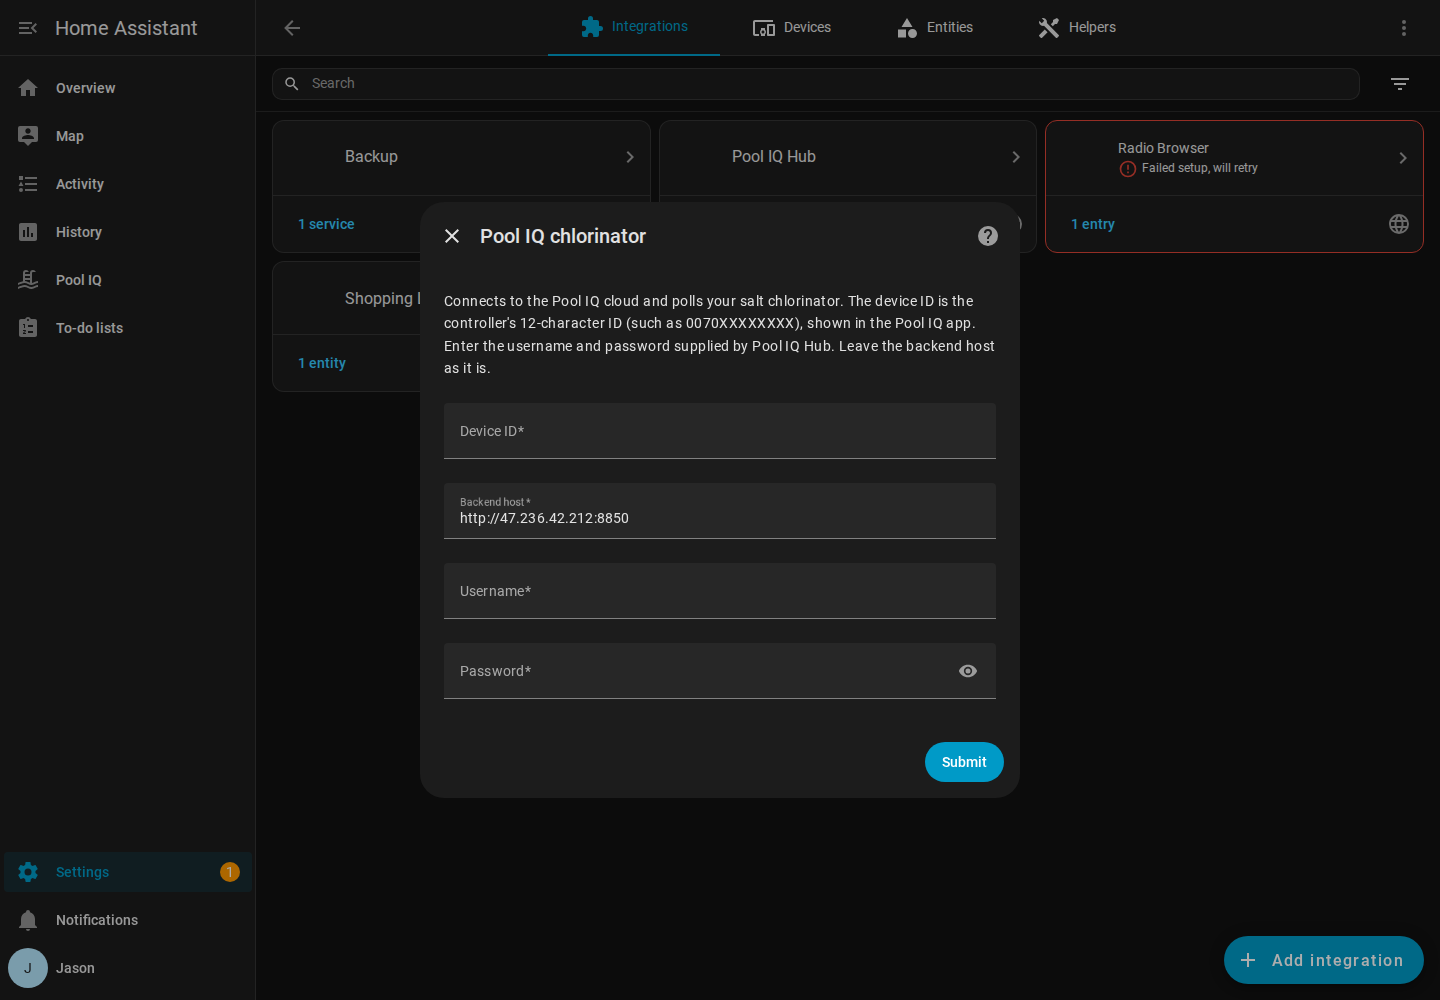
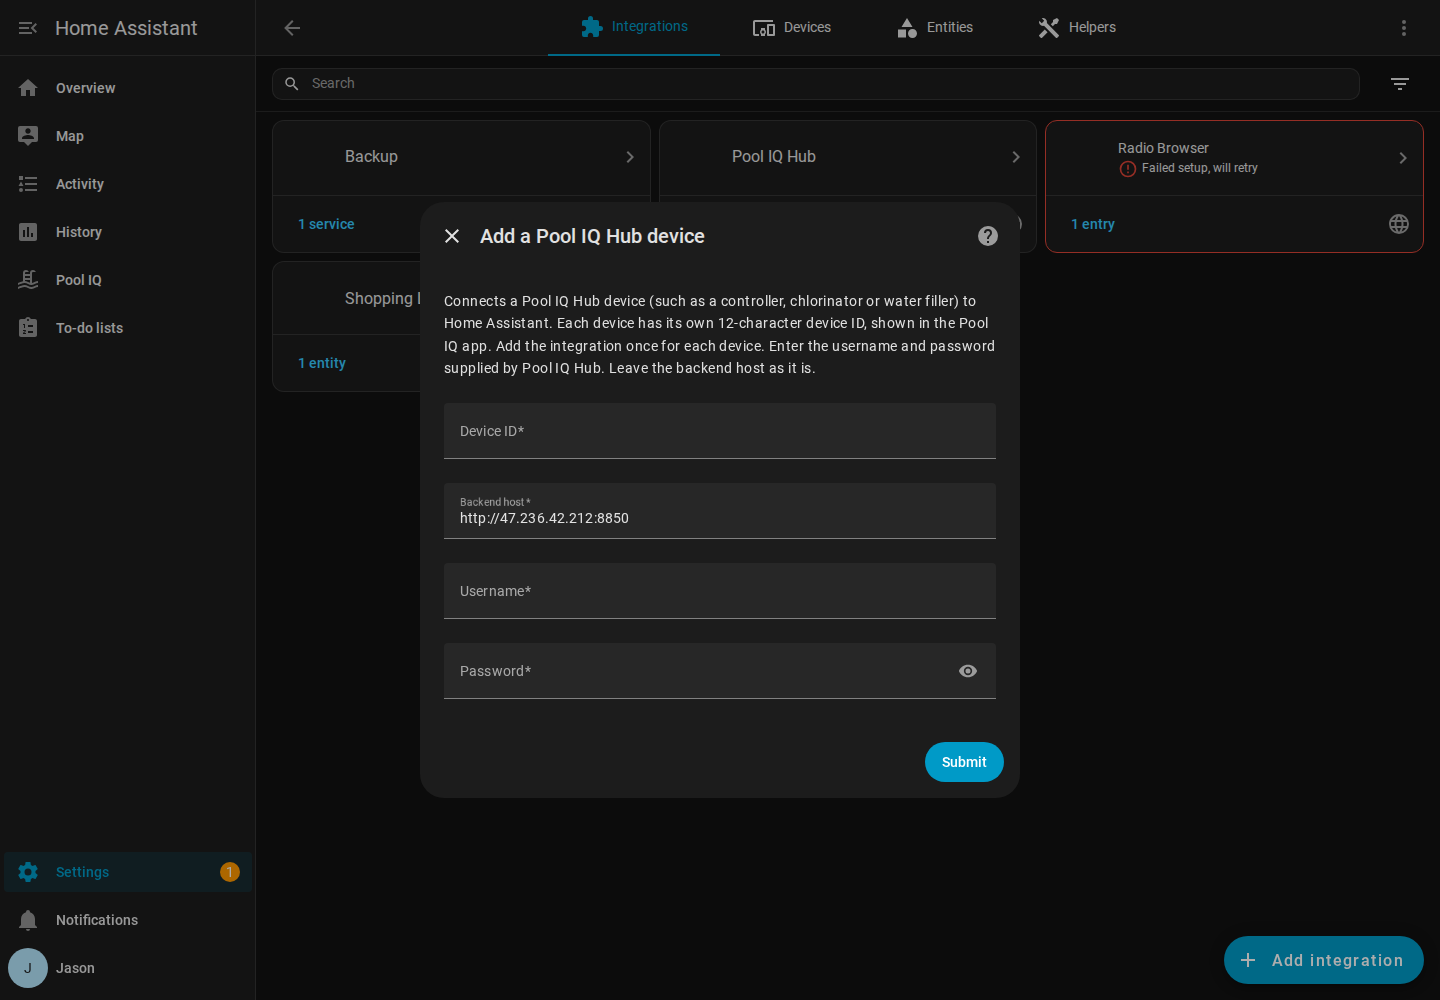
Release 0.4.1: follow chlorinator through purge, power pack temperature, generic device naming
- Poll every 5s for 90s after any command, and every 10s while the unit is
  purging or running a salt test, so status follows Purge -> On.
- Add Power pack temperature sensor (whole degrees) and show it on the panel.
- Name devices Pool IQ Controller / Chlorinator / Device by what they report.
- Generic setup form text for any Pool IQ Hub device.
- README and INSTALL updated for multiple device types; add CHANGELOG.

Claude-Session: https://claude.ai/code/session_01257QZwe8CHSdfKF85YoHYN

Changed region(s): [[0.3125, 0.279, 0.6875, 0.372], [0.3125, 0.217, 0.5, 0.248]]

diff --git a/custom_components/pooliq/frontend/pooliq-panel.js b/custom_components/pooliq/frontend/pooliq-panel.js
@@ -248,7 +248,7 @@ class PoolIQPanel extends HTMLElement {
     return `
       <div class="card empty">
         <ha-icon icon="mdi:pool"></ha-icon>
-        <h2>No Pool IQ controller set up yet</h2>
+        <h2>No Pool IQ device set up yet</h2>
         <p>Add one under <a href="/config/integrations/integration/pooliq">Settings → Devices &amp; services → Pool IQ</a>.</p>
       </div>`;
   }
@@ -292,6 +292,7 @@ class PoolIQPanel extends HTMLElement {
       stat(r.output, "Chlorinator output", "mdi:water-percent"),
       stat(r.cell, "Cell", "mdi:flash-outline"),
       stat(r.pump, "Chlorinator pump", "mdi:pump"),
+      stat(r.power_pack, "Power pack", "mdi:thermometer"),
       stat(r.work_mode, "Work mode", "mdi:cog-outline"),
       stat(r.fault, "Faults", "mdi:alert-circle-outline"),
     ].join("");

diff --git a/custom_components/pooliq/coordinator.py b/custom_components/pooliq/coordinator.py
@@ -3,6 +3,7 @@ from __future__ import annotations
 
 import asyncio
 import logging
+import time
 from datetime import timedelta
 from typing import Any
 
@@ -19,7 +20,15 @@ from .const import DOMAIN
 _LOGGER = logging.getLogger(__name__)
 
 STORAGE_VERSION = 1
-CONFIRM_DELAY = 6  # seconds to wait for the hub to confirm a write
+CONFIRM_DELAY = 4  # seconds before the first check after a command
+# After a command, poll quickly while the device works through it: a
+# chlorinator purges for ~16s, then ramps its output for another ~15s.
+FAST_INTERVAL = timedelta(seconds=5)
+FAST_WINDOW = 90  # seconds of fast polling after each command
+# While the device is mid-transition on its own (purging, salt test), keep
+# checking every 10s, but never for longer than this.
+SETTLING_INTERVAL = timedelta(seconds=10)
+SETTLING_MAX = 600
 TRIGGER_WAIT = 3  # seconds for the hub to answer a full-report request
 DEFAULT_BOOST_HOURS = 8
 
@@ -45,6 +54,9 @@ class PoolIQCoordinator(DataUpdateCoordinator[dict[str, Any]]):
         )
         self.client = client
         self.entry = entry
+        self._normal_interval = timedelta(seconds=scan_interval)
+        self._fast_until = 0.0
+        self._settling_since: float | None = None
         # Socket state is only visible when the hub reports a change, so the
         # last known state is cached here and persisted across restarts.
         self._sockets: dict[str, dict[str, Any]] = {}
@@ -104,7 +116,30 @@ class PoolIQCoordinator(DataUpdateCoordinator[dict[str, Any]]):
         if changed:
             self._save_cache()
 
+        self._pick_interval(props)
         return {"properties": props, "sockets": dict(self._sockets)}
+
+    @staticmethod
+    def _is_settling(props: dict[str, Any]) -> bool:
+        """True while the device is in a short-lived state that will change on its own."""
+        def val(key: str) -> str:
+            return str((props.get(key) or {}).get("value", "")).upper()
+
+        return val("CellStatus") == "PURGE" or val("SpecMode") == "3"  # 3 = salt test
+
+    @callback
+    def _pick_interval(self, props: dict[str, Any]) -> None:
+        now = time.monotonic()
+        if self._is_settling(props):
+            self._settling_since = self._settling_since or now
+        else:
+            self._settling_since = None
+        if now < self._fast_until:
+            self.update_interval = FAST_INTERVAL
+        elif self._settling_since is not None and now - self._settling_since < SETTLING_MAX:
+            self.update_interval = SETTLING_INTERVAL
+        else:
+            self.update_interval = self._normal_interval
 
     async def async_set_socket(self, socket: str, mode: str) -> None:
         """Write a socket mode, update optimistically, then confirm shortly after."""
@@ -121,16 +156,16 @@ class PoolIQCoordinator(DataUpdateCoordinator[dict[str, Any]]):
         self._save_cache()
         if self.data is not None:
             self.async_set_updated_data({**self.data, "sockets": dict(self._sockets)})
-
-        async def _confirm(_now) -> None:
-            await self.async_request_refresh()
-
-        async_call_later(self.hass, CONFIRM_DELAY, _confirm)
+        self._schedule_confirm()
 
     @callback
     def _schedule_confirm(self) -> None:
+        """Check back soon after a command, then keep checking quickly for a while."""
+        self._fast_until = time.monotonic() + FAST_WINDOW
+        self.update_interval = FAST_INTERVAL
+
         async def _confirm(_now) -> None:
-            await self.async_request_refresh()
+            await self.async_refresh()
 
         async_call_later(self.hass, CONFIRM_DELAY, _confirm)
 

diff --git a/custom_components/pooliq/sensor.py b/custom_components/pooliq/sensor.py
@@ -41,6 +41,8 @@ class PoolIQSensorDescription(SensorEntityDescription):
     value_fn: Callable[[dict[str, Any]], Any] | None = None
     # Only create the entity when the device reports this property.
     requires: str | None = None
+    # Property to read when it differs from the key (key also forms the unique id).
+    prop: str | None = None
 
 
 TEMP_LABELS = {"WaterTemp": "TempNameA", "WaterTempB": "TempNameB"}
@@ -120,16 +122,6 @@ SENSORS: tuple[PoolIQSensorDescription, ...] = (
     ),
     # --- Diagnostics ---
     PoolIQSensorDescription(
-        key="internal_temperature",
-        name="Controller temperature",
-        device_class=SensorDeviceClass.TEMPERATURE,
-        native_unit_of_measurement=UnitOfTemperature.CELSIUS,
-        state_class=SensorStateClass.MEASUREMENT,
-        divide=10.0,
-        entity_category=EntityCategory.DIAGNOSTIC,
-        entity_registry_enabled_default=False,
-    ),
-    PoolIQSensorDescription(
         key="WIFI_RSSI",
         name="WiFi signal",
         state_class=SensorStateClass.MEASUREMENT,
@@ -202,6 +194,16 @@ def _timer(n: int) -> Callable[[dict[str, Any]], Any]:
 # Created only on devices that report them (chlorinators).
 CHLORINATOR_SENSORS: tuple[PoolIQSensorDescription, ...] = (
     PoolIQSensorDescription(
+        # Reported in whole degrees (26 = 26°C), unlike the water probes.
+        key="power_pack_temp",
+        prop="internal_temperature",
+        requires="internal_temperature",
+        name="Power pack temperature",
+        device_class=SensorDeviceClass.TEMPERATURE,
+        native_unit_of_measurement=UnitOfTemperature.CELSIUS,
+        state_class=SensorStateClass.MEASUREMENT,
+    ),
+    PoolIQSensorDescription(
         key="SpecMode",
         name="Special mode",
         source="text",
@@ -267,7 +269,7 @@ async def async_setup_entry(
 
 
 class PoolIQSensor(PoolIQEntity, SensorEntity):
-    """A single reading from the chlorinator."""
+    """A single reading from a Pool IQ device."""
 
     entity_description: PoolIQSensorDescription
 
@@ -290,7 +292,7 @@ class PoolIQSensor(PoolIQEntity, SensorEntity):
         if desc.value_fn is not None:
             return desc.value_fn((self.coordinator.data or {}).get("properties") or {})
 
-        item = self._prop(desc.key)
+        item = self._prop(desc.prop or desc.key)
         if item is None:
             return None
 

diff --git a/custom_components/pooliq/entity.py b/custom_components/pooliq/entity.py
@@ -13,15 +13,23 @@ from .coordinator import PoolIQCoordinator
 
 
 def device_info(coordinator: PoolIQCoordinator) -> DeviceInfo:
+    """Name the device after what it reports; anything unrecognised is a generic Pool IQ device.
+
+    Users can rename it in Home Assistant (e.g. "Water filler") and the panel follows.
+    """
     props = (coordinator.data or {}).get("properties") or {}
     sw = (props.get("software_ver") or {}).get("value")
-    # A device with an output setpoint has a salt cell; otherwise it's a controller hub.
-    chlorinator = "OutputSetPoint" in props
+    if "OutputSetPoint" in props:  # has a salt cell
+        name, model = "Pool IQ Chlorinator", "Salt chlorinator"
+    elif coordinator.sockets:  # reports switched sockets
+        name, model = "Pool IQ Controller", "Controller hub"
+    else:
+        name, model = "Pool IQ Device", "Pool IQ Hub device"
     return DeviceInfo(
         identifiers={(DOMAIN, coordinator.client.device_id)},
-        name="Pool IQ Chlorinator" if chlorinator else "Pool IQ Controller",
+        name=name,
         manufacturer="Pool IQ Hub",
-        model="SL Series salt chlorinator" if chlorinator else "Pool IQ controller hub",
+        model=model,
         sw_version=sw,
     )
 

diff --git a/custom_components/pooliq/panel.py b/custom_components/pooliq/panel.py
@@ -34,6 +34,7 @@ READING_KEYS = {
     "PumpStatus": "pump",
     # chlorinator
     "SpecMode": "special",
+    "power_pack_temp": "power_pack",
     "PowerMode_ctl": "mode",
     "OutputSetPoint_ctl": "setpoint",
     "WinterMode_ctl": "winter",
@@ -96,7 +97,7 @@ def async_maybe_remove_panel(hass: HomeAssistant, unloading_entry_id: str) -> No
 def ws_list_devices(
     hass: HomeAssistant, connection: websocket_api.ActiveConnection, msg: dict[str, Any]
 ) -> None:
-    """List configured controllers and the entity ids the panel should show."""
+    """List configured Pool IQ devices and the entity ids the panel should show."""
     registry = er.async_get(hass)
     devices = []
     for entry in hass.config_entries.async_entries(DOMAIN):

diff --git a/custom_components/pooliq/const.py b/custom_components/pooliq/const.py
@@ -2,7 +2,7 @@
 from __future__ import annotations
 
 DOMAIN = "pooliq"
-VERSION = "0.4.0"
+VERSION = "0.4.1"
 
 # JetLinks backend the Pool IQ app talks to.
 DEFAULT_HOST = "http://47.236.42.212:8850"

diff --git a/README.md b/README.md
@@ -1,8 +1,8 @@
 # Pool IQ Hub for Home Assistant
 
-A custom integration that brings your Pool IQ Hub salt chlorinator and its switched sockets into Home Assistant: water temperature, salt level, chlorinator output and status, plus on/off/auto control of everything plugged into the hub (filter pump, lights, blowers, jet pump).
+A custom integration that brings your Pool IQ Hub devices into Home Assistant. A controller hub gives you water temperatures and on/off/auto control of everything plugged into it (filter pump, lights, blowers, jet pump). A salt chlorinator gives you salt level, output, cell status, power pack temperature and full chlorinator control. Other Pool IQ Hub devices appear with the readings they report.
 
-The Pool IQ app has no official Home Assistant integration. This talks to the same JetLinks cloud backend the app uses (`47.236.42.212:8850`), logging in with Pool IQ cloud credentials and reading your device's latest reported values on a schedule.
+The Pool IQ app has no official Home Assistant integration. This talks to the same JetLinks cloud backend the app uses (`47.236.42.212:8850`), logging in with Pool IQ cloud credentials and reading each device's latest reported values on a schedule. After you change something, it checks back every few seconds until the device has settled.
 
 > **New installing this?** See [INSTALL.md](INSTALL.md) for a step-by-step guide with screenshots.
 
@@ -27,7 +27,7 @@ In Auto, the switch shows whether the timer currently has the socket on. The tim
 
 ### Chlorinator control
 
-When the device is a salt chlorinator (it reports an output setpoint), it also gets:
+When the device is a salt chlorinator (it reports an output setpoint), it gets:
 
 - **Chlorinator mode** (On / Off / Auto) and an **Output setpoint** slider (0 to 100%)
 - **Winter mode** and **Spa mode** switches, with their own output settings
@@ -35,6 +35,7 @@ When the device is a salt chlorinator (it reports an output setpoint), it also g
 - **Start boost** / **Stop boost** buttons, with a **Boost duration** setting (hours)
 - **Run salt test** button
 - **Special mode** (Normal, Boost, Backwash, Salt test), **Running on** (which timer is active), and **Timer 1 / Timer 2** windows
+- **Power pack temperature** (°C)
 
 Backwash is a multi-step routine on the unit and is left to the Pool IQ app.
 
@@ -50,17 +51,17 @@ Enabled by default:
 - **Pump** (running / not running, binary sensor)
 - **Fault code**
 
-Disabled by default (enable per entity if you want them): copper level, controller temperature, WiFi signal, pump/cell/power running hours, firmware version, pH dosing pump, cell direction.
+Disabled by default (enable per entity if you want them): copper level, WiFi signal, pump/cell/power running hours, firmware version, pH dosing pump, cell direction.
 
 Some properties (salt, pump, output, cell) only report while the unit is actively running, so they may read as unknown when it is idle. They populate once the pump and cell come on.
 
 ## Requirements
 
 - Home Assistant 2024.7 or newer
-- Your chlorinator's **device ID** (a MAC-style string such as `0070XXXXXXXX`)
+- The **device ID** of each Pool IQ Hub device you want to add (a 12-character code such as `0070XXXXXXXX`)
 - The Pool IQ **username and password** supplied by Pool IQ Hub
 
-Finding the device ID: it is shown in the Pool IQ app, or captured from the app's network traffic (the `device-instance/<ID>` requests).
+Finding the device ID: it is shown in the Pool IQ app. A controller hub and a chlorinator each have their own ID.
 
 ## Install
 
@@ -80,6 +81,9 @@ Finding the device ID: it is shown in the Pool IQ app, or captured from the app'
 1. **Settings → Devices & Services → Add Integration → Pool IQ**.
 2. Enter your **device ID** and the **username** and **password** supplied by Pool IQ Hub. Leave the backend host as it is.
 3. Submit. The integration logs in, confirms it can read the device, and creates the entities.
+4. **More than one device?** Repeat these steps for each one (for example, once for the controller hub and once for the chlorinator). They all appear on the same Pool IQ sidebar page.
+
+Devices are named Pool IQ Controller, Pool IQ Chlorinator or Pool IQ Device depending on what they report. Rename any of them in Home Assistant (for example "Water filler") and the sidebar page follows.
 
 Change the polling interval (default 300s) any time via the integration's **Configure** button.
 

diff --git a/INSTALL.md b/INSTALL.md
@@ -6,7 +6,7 @@ This guide takes a fresh Home Assistant installation to a working Pool IQ setup.
 
 - Home Assistant 2024.7 or newer (tested on 2026.2)
 - A Pool IQ hub that is online and working in the Pool IQ app
-- The hub's **device ID**: a 12-character code such as `0070XXXXXXXX`
+- The **device ID** of each Pool IQ Hub device: a 12-character code such as `0070XXXXXXXX`, shown in the Pool IQ app
 - The Pool IQ **username and password** supplied by Pool IQ Hub
 
 ## Step 1: Copy the integration into Home Assistant
@@ -79,7 +79,7 @@ Socket names come from the names set in the Pool IQ app. Sockets with the same n
 
 ### More than one Pool IQ device
 
-A controller hub and a chlorinator each have their own device ID. Add the integration once per device (**Add integration → Pool IQ** again, with the other device ID). Both appear on the same Pool IQ sidebar page. A chlorinator gets a **Chlorinator** section with mode, output setpoint, winter and spa modes, pH dosing, boost and salt test.
+Each Pool IQ Hub device (controller hub, chlorinator and so on) has its own device ID. Add the integration once per device (**Add integration → Pool IQ** again, with the other device ID). Both appear on the same Pool IQ sidebar page. A chlorinator gets a **Chlorinator** section with mode, output setpoint, winter and spa modes, pH dosing, boost and salt test.
 
 ## Step 5 (optional): Automations
 
@@ -105,7 +105,7 @@ automation:
 | Pool IQ doesn't appear in **Add integration** | Check the folder path is `config/custom_components/pooliq/` and restart Home Assistant. |
 | A socket is missing | Toggle that socket once in the Pool IQ app. It appears within 5 minutes. |
 | Values show "Unavailable" | The hub or the Pool IQ cloud is offline. Check the Pool IQ app. |
-| Changes take a few seconds | Commands go through the Pool IQ cloud to the hub, and the panel waits for the hub's confirmation. |
+| Changes take a few seconds | Commands go through the Pool IQ cloud to the device, and the panel waits for its confirmation. A chlorinator purges for about 15 seconds before the cell turns on; Home Assistant follows it through. |
 | Polling interval | Default is every 5 minutes. Change it under **Pool IQ → Configure**. |
 
 For detailed logs, add this to `configuration.yaml` and restart:

diff --git a/CHANGELOG.md b/CHANGELOG.md
@@ -1,0 +1,30 @@
+# Changelog
+
+## 0.4.1
+
+- Chlorinator status now follows the unit through purge, boost and salt test. After any command, Home Assistant checks every 5 seconds for 90 seconds, and keeps checking every 10 seconds while the unit is purging or running a salt test.
+- New **Power pack temperature** sensor for chlorinators, also shown on the Pool IQ page.
+- Generic device naming: Pool IQ Controller, Pool IQ Chlorinator, or Pool IQ Device for anything else. Rename a device in Home Assistant and the Pool IQ page follows.
+- Setup form now describes any Pool IQ Hub device and explains adding one entry per device.
+- README and install guide updated for multiple device types.
+
+## 0.4.0
+
+- Salt chlorinator support: mode (On / Off / Auto), output setpoint, winter and spa modes, pH dosing, boost, salt test, timers and special mode.
+- Chlorinator section on the Pool IQ page.
+- Number and button entities.
+- Pool IQ Hub branding throughout.
+
+## 0.3.x
+
+- Pool IQ sidebar page with temperatures, status and socket controls.
+- Login details entered during setup instead of built in, so the repository can be public.
+- Installable through HACS.
+
+## 0.2.x
+
+- Socket control: on/off switch and On / Off / Auto mode for each socket.
+
+## 0.1.0
+
+- First release: read-only temperatures, salt level, output and status.
